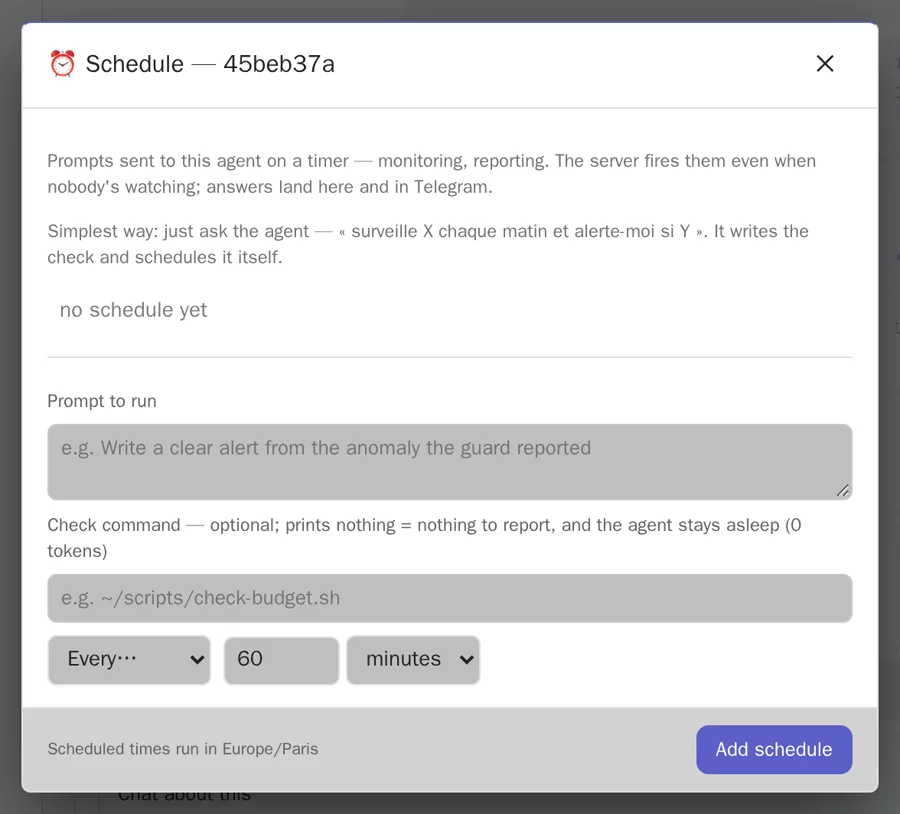
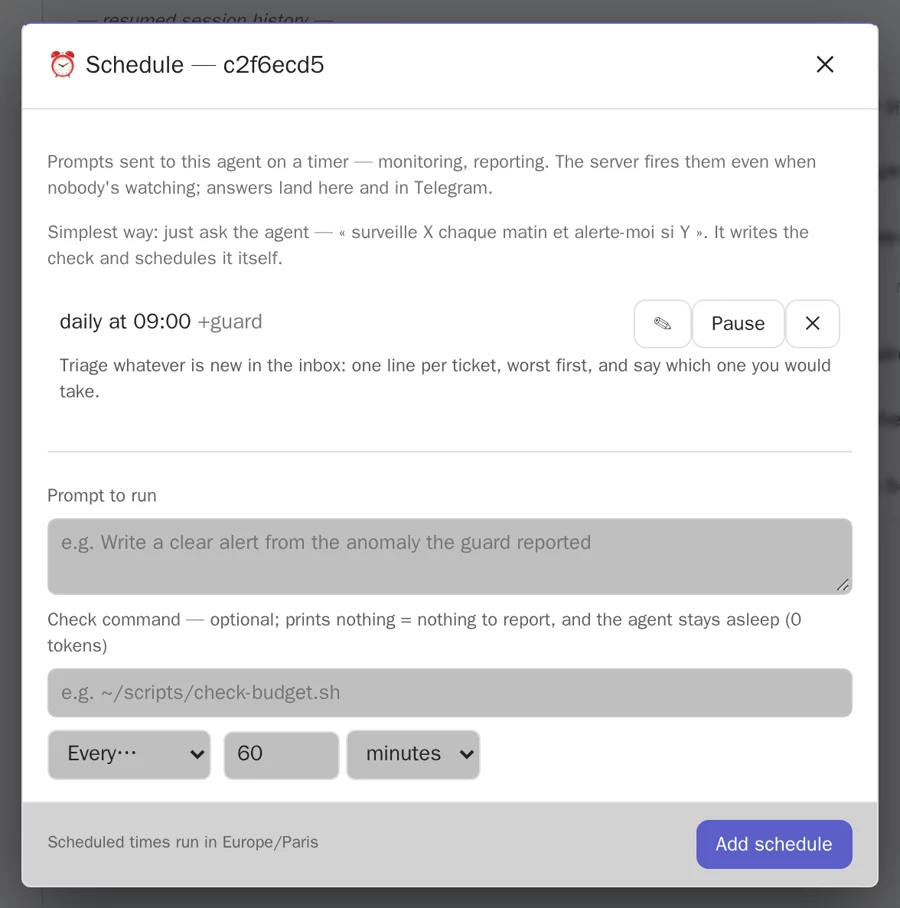
The schedule section becomes the proactivity section, and moves up
It was filed under "while you are away" and read as a feature of the
cron. The point is the other way round: an agent you point at something
that changes — a repository, a mailbox, a folder of transcripts, a
dashboard, a queue, a log — and that writes to you first when there is
something to say. That is what makes it an employee rather than a tool,
so it now sits second, right after what the thing is.

The triggers are a row of tags under the words: the list IS the
argument.

It also carries the one proof nobody can accuse of being marketing: this
page is maintained that way. A check runs every few minutes on the
product's merged pull requests, and most runs print nothing and cost
nothing.

The picture was wrong for the claim — it showed a Schedule panel reading
"no schedule yet", on an agent that had none. It is now the panel of the
agent that really runs daily at 09:00 with a guard in front of it.

Claude-Session: https://claude.ai/code/session_013drUQ8RrZRuBgYytQq1Mv6

diff --git a/index.html b/index.html
@@ -130,6 +130,41 @@
     </div>
   </section>
 
+  <section class="band night">
+    <div class="wrap">
+      <div class="duo">
+        <div class="say">
+          <p class="label"><span class="led wait"></span> it comes to you</p>
+          <h2>An agent that opens the conversation first</h2>
+          <p>Point one at something that changes — a repository, a mailbox, a folder of
+          transcripts, a dashboard, a log — and give it a rhythm: every ten minutes, or every
+          morning at nine in the time zone you name. It looks on its own, and when there is
+          something to say, <strong>it is the one that writes to you</strong>: in the cockpit,
+          and on your phone.</p>
+          <p>Attach a one-line shell check and looking costs nothing. The check runs
+          <strong>without the model</strong>; if it prints nothing, nothing happened, and the
+          agent is never woken. A watcher that stays quiet most of the day is free most of the
+          day.</p>
+          <p>This page works that way. A check runs every few minutes on the product's merged
+          pull requests; when one of them changes something a visitor would need to know, an
+          agent wakes up, reads the diff, edits this page and pushes it. <strong>Most runs print
+          nothing and cost nothing.</strong></p>
+          <ul class="chips">
+            <li>a repository</li><li>a mailbox</li><li>transcripts</li><li>a dashboard</li>
+            <li>a queue</li><li>a log</li><li>a price</li><li>a deploy</li>
+          </ul>
+        </div>
+        <figure class="shot panel">
+          <img src="/shots/panel-schedule.webp" width="900" height="908" loading="lazy" decoding="async"
+               alt="The Schedule panel of an agent: one prompt already running daily at 09:00 with a guard in front
+                    of it — “Triage whatever is new in the inbox: one line per ticket, worst first, and say which one
+                    you would take” — and the fields to add another.">
+          <figcaption>Ask the agent in plain words and it writes its own check: the guard runs without the model, and silence costs nothing.</figcaption>
+        </figure>
+      </div>
+    </div>
+  </section>
+
   <section class="band quiet">
     <div class="wrap">
       <div class="duo">
@@ -233,27 +268,6 @@
     </div>
   </section>
 
-  <section class="band night">
-    <div class="wrap">
-      <div class="duo">
-        <div class="say">
-          <p class="label"><span class="led idle"></span> while you are away</p>
-          <h2>A schedule, and a check that costs nothing</h2>
-          <p>Give an agent a recurring prompt: every thirty minutes, or every morning at nine
-          in the time zone you name. Attach a one-line shell check and it runs <strong>without
-          the model</strong> — if the check prints nothing, nothing happened, and the agent is
-          never woken.</p>
-          <p>A watcher that stays quiet most of the day costs you nothing most of the day.</p>
-        </div>
-        <figure class="shot panel">
-          <img src="/shots/panel-schedule.webp" width="900" height="814" loading="lazy" decoding="async"
-               alt="The Schedule panel for an agent: a daily nine o'clock prompt in Europe/Paris, with a check command
-                    field explaining that printing nothing means the agent stays asleep.">
-          <figcaption>The check is the whole trick: no output, no model call, no tokens.</figcaption>
-        </figure>
-      </div>
-    </div>
-  </section>
 
   <section class="band">
     <div class="wrap">

diff --git a/style.css b/style.css
@@ -189,6 +189,7 @@ h1 em { font-style: normal; color: var(--ink-3); }
 .band.night p { color: #a3a9bd; }
 .band.night .label { color: #7d8499; }
 .band.night .say strong { color: #fff; }  /* ink-on-ink made it vanish */
+.band.night .chips li { border-color: #2a3043; color: #aab0c6; background: #141827; }  /* ink-on-ink made it vanish */
 .band.night .shot { border-color: #262b3d; background: var(--night-2); }
 .band.night figcaption { background: var(--night-2); border-color: #262b3d; color: #8d94a8; }
 .band.night .tile { background: var(--night-2); border-color: #262b3d; }
@@ -218,6 +219,13 @@ figure { margin: 0; }
 }
 /* a cropped panel is portrait: it must never be blown up past its own pixels */
 .shot.panel { max-width: 560px; }
+/* What you can point an agent at, as a row of tags — the list is the argument. */
+.chips { display: flex; flex-wrap: wrap; gap: .5rem; margin: 1.6rem 0 0; padding: 0; list-style: none; }
+.chips li {
+  padding: .22rem .6rem; border: 1px solid var(--line-2); border-radius: 999px;
+  font: 400 .8rem/1.5 var(--mono); color: var(--ink-2); background: #fff;
+}
+
 .shot.live { max-width: 420px; margin-inline: auto; }
 .shot.live video { display: block; width: 100%; height: auto; background: #fff; }
 
